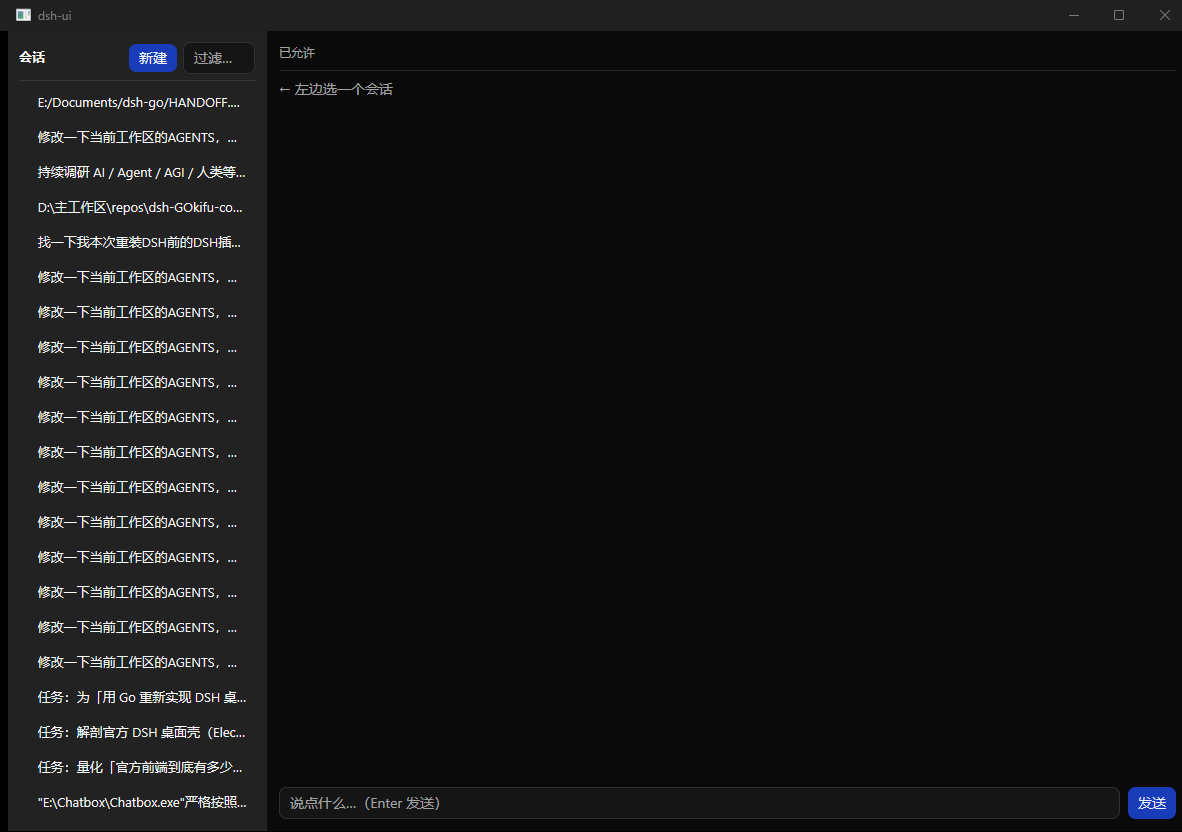
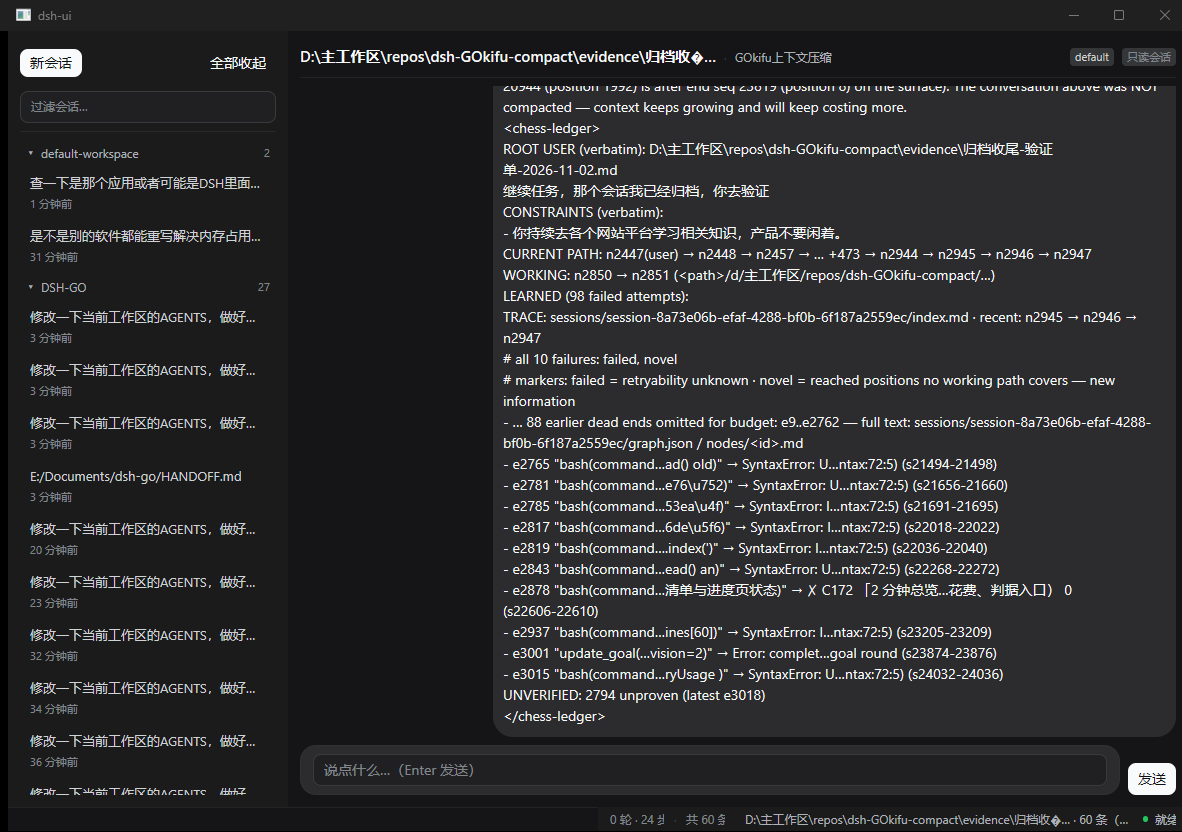
docs: 记下懒加载 bug 的实测（1 条 → 120 条）

diff --git a/scripts/shot.py b/scripts/shot.py
@@ -74,15 +74,16 @@ def find_window(title, timeout=15.0):
             buf = ctypes.create_unicode_buffer(n + 1)
             user32.GetWindowTextW(hwnd, buf, n + 1)
             if needle in buf.value.lower():
-                hit.append(hwnd)
+                pid = wt.DWORD()
+                user32.GetWindowThreadProcessId(hwnd, ctypes.byref(pid))
+                hit.append((pid.value, hwnd))
             return True
 
         user32.EnumWindows(cb, 0)
         if hit:
-            hwnd = hit[0]
-            pid = wt.DWORD()
-            user32.GetWindowThreadProcessId(wt.HWND(hwnd), ctypes.byref(pid))
-            return hwnd, pid.value
+            # 同名窗口可能存在多个（旧的没退干净）：取 pid 最大的那个 = 最晚起的。
+            hit.sort()
+            return hit[-1][1], hit[-1][0]
         time.sleep(0.12)
     return None, None
 

diff --git a/docs/progress.md b/docs/progress.md
@@ -105,3 +105,4 @@
 | 2026-11-03 12:46 | **`ds-topbar` 落地 + 工具卡吃到真数据**：`cmd/mockd` 补上 `tool/call` / `tool/result` 解码（callId 配对）与 `tvToolView` 声明器，界面侧 card/table/plain 三个渲染器第一次画在真实会话上（该会话 4044 条消息 / 3020 次工具调用）。顶栏显示标题·工作区·模式 | `docs/p5-tools.png`；**68.6 MB** |
 | 2026-11-03 12:47 | 新增 `cmd/mockd/view_test.go` 6 条：三种 Kind、行宽必须等于列数、未知工具给通用卡片但空结果必须 nil、错误走 Badge。**没有写「未知工具必须 nil」**——实测通用卡片更好用，取舍写进测试注释 | `go test ./cmd/mockd/` 全绿 |
 | 2026-11-03 12:48 | 截图脚本改成 `PrintWindow` 直取窗口像素：`ImageGrab` 截的是屏幕，窗口被盖住时截到的是**别人的窗口**（踩了一次，截成 DSH 主窗口还以为是渲染坏了） | `scripts/shot.py` |
+| 2026-11-03 12:47 | **查出「每个真实会话只显示 1 条消息」的根因**：懒索引（headerOnly）解到第一条 user 消息就返回，`Messages` 里有 1 条；load 处用 `len(Messages)==0` 判断「要不要全量解」，于是永远不会全量解。加 `realSession.Full` 标记后：**1 条 → 120 条**，其中 **109 条工具调用**，全部带 `view`（card/plain）。这是界面看起来「空」的真正原因，不是渲染问题 | `docs/p4-toolcards.png` |
